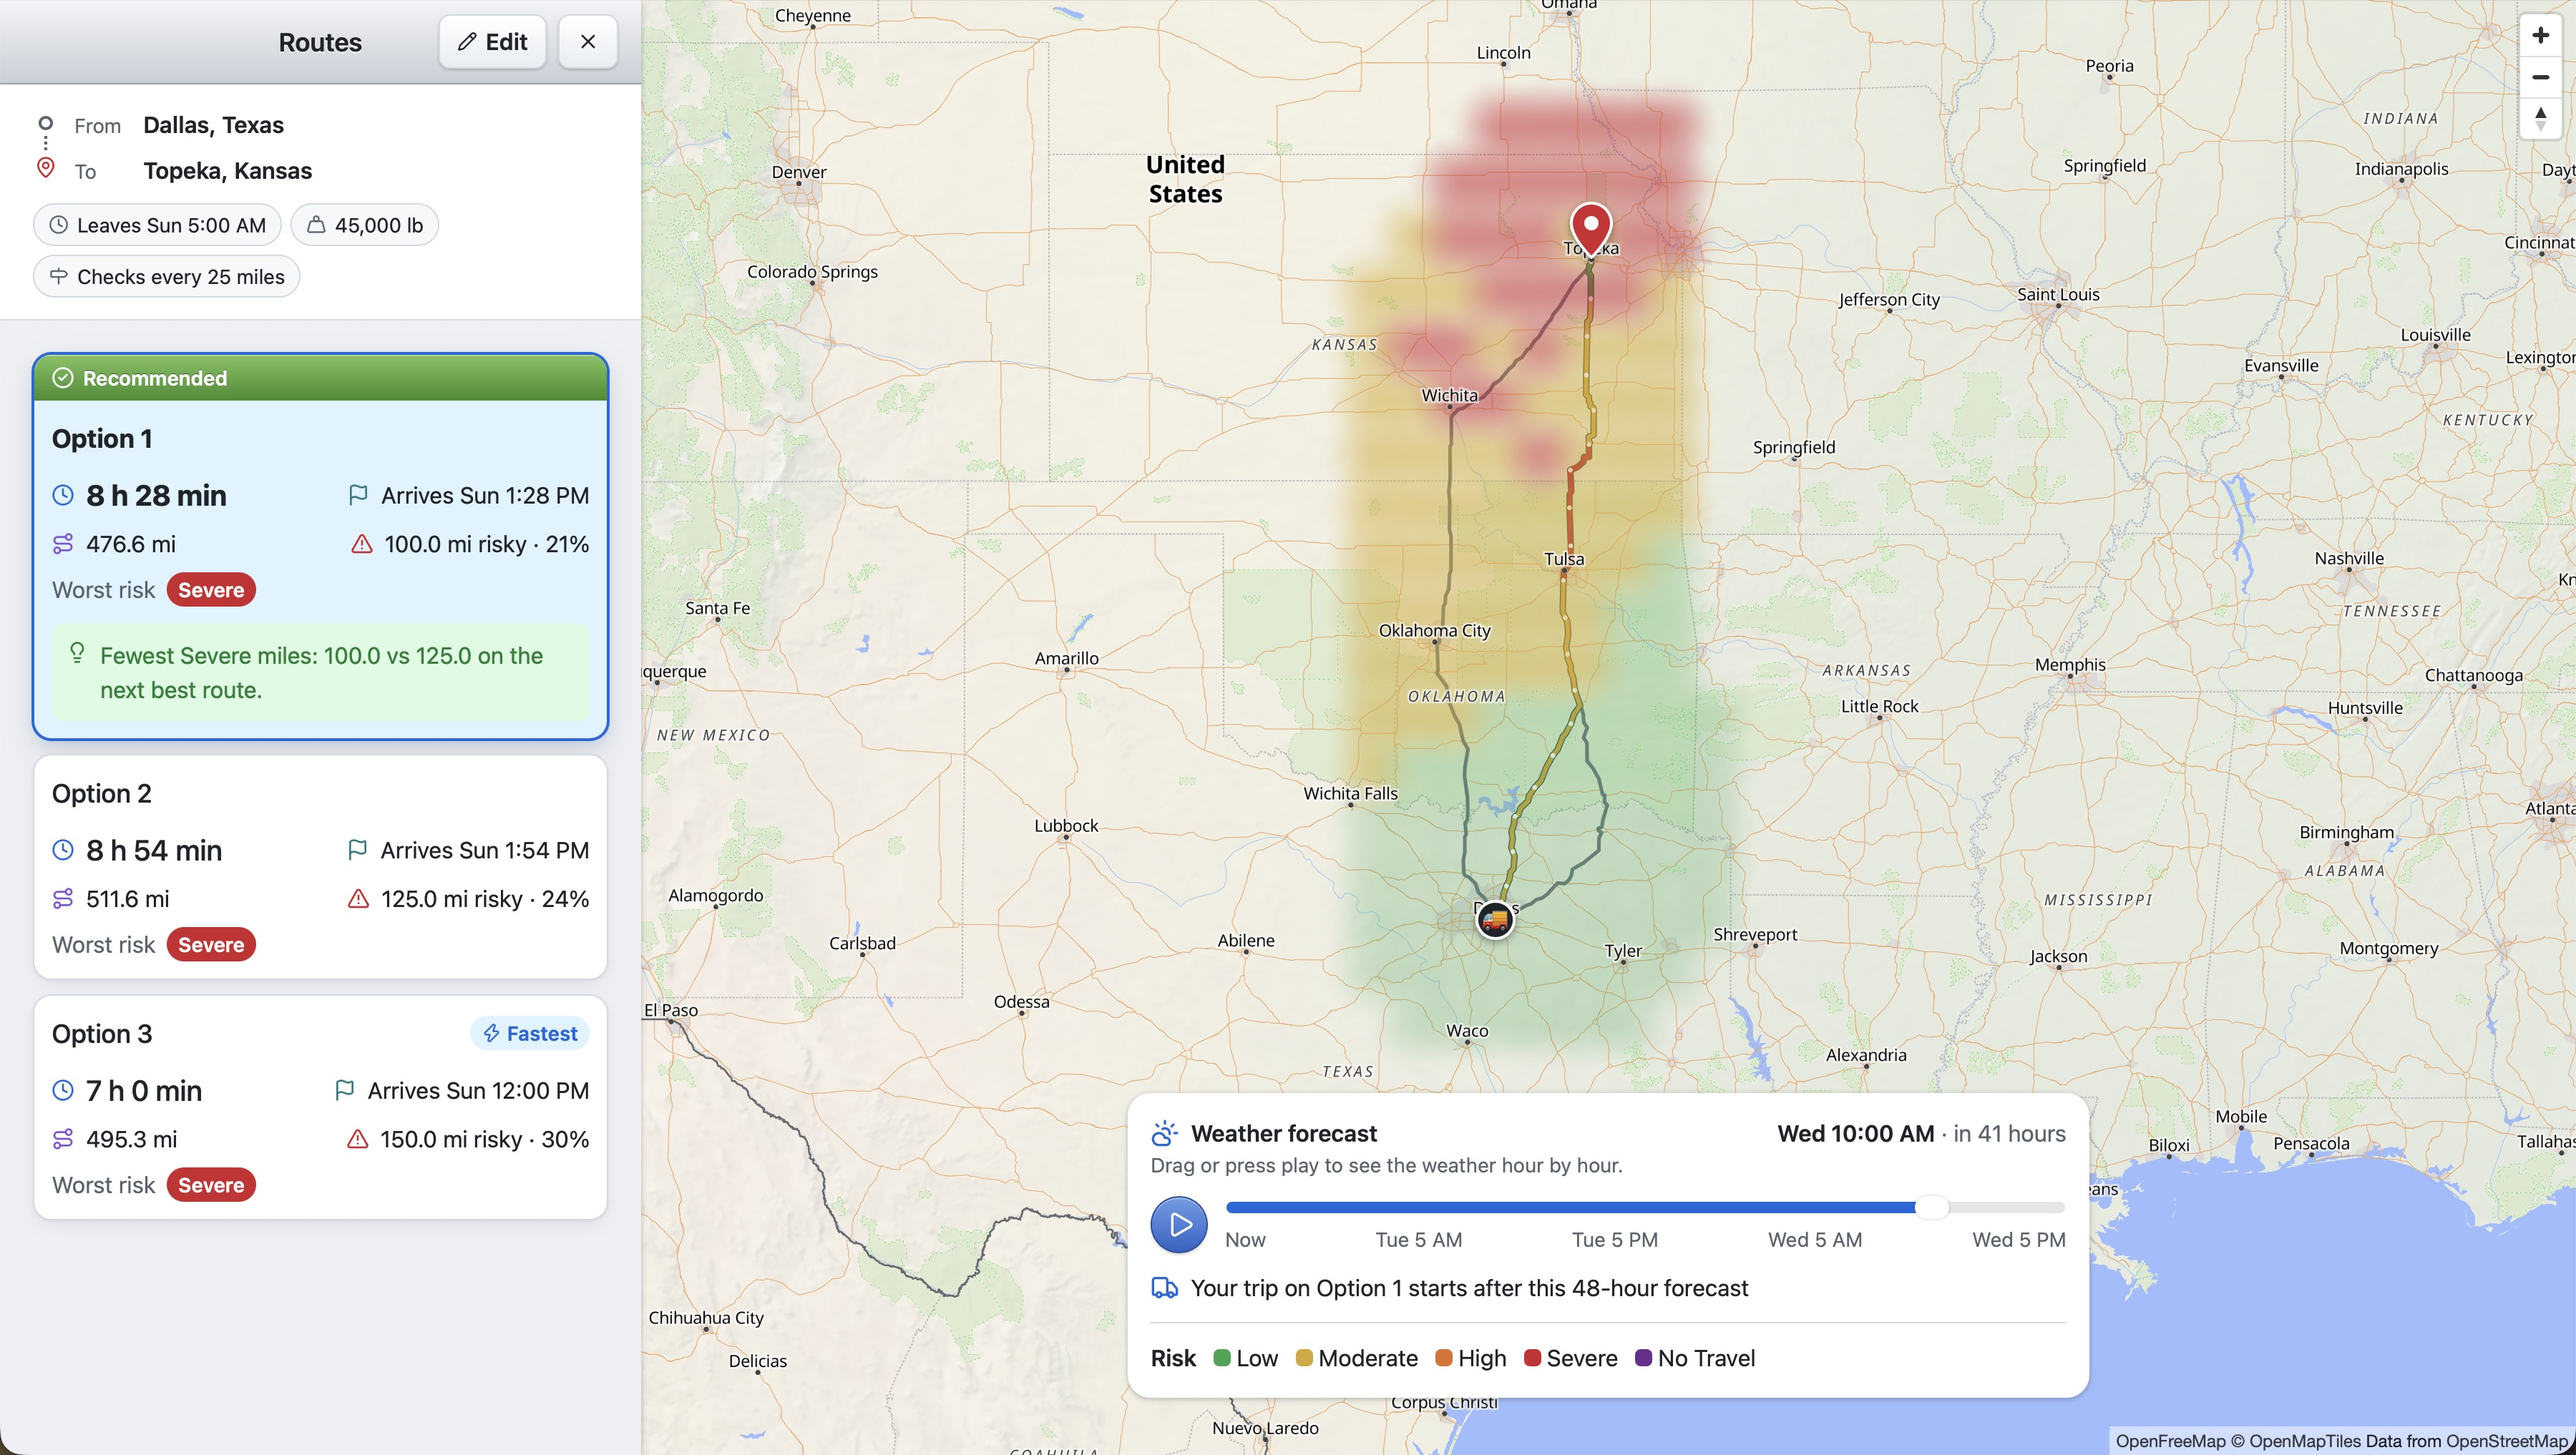
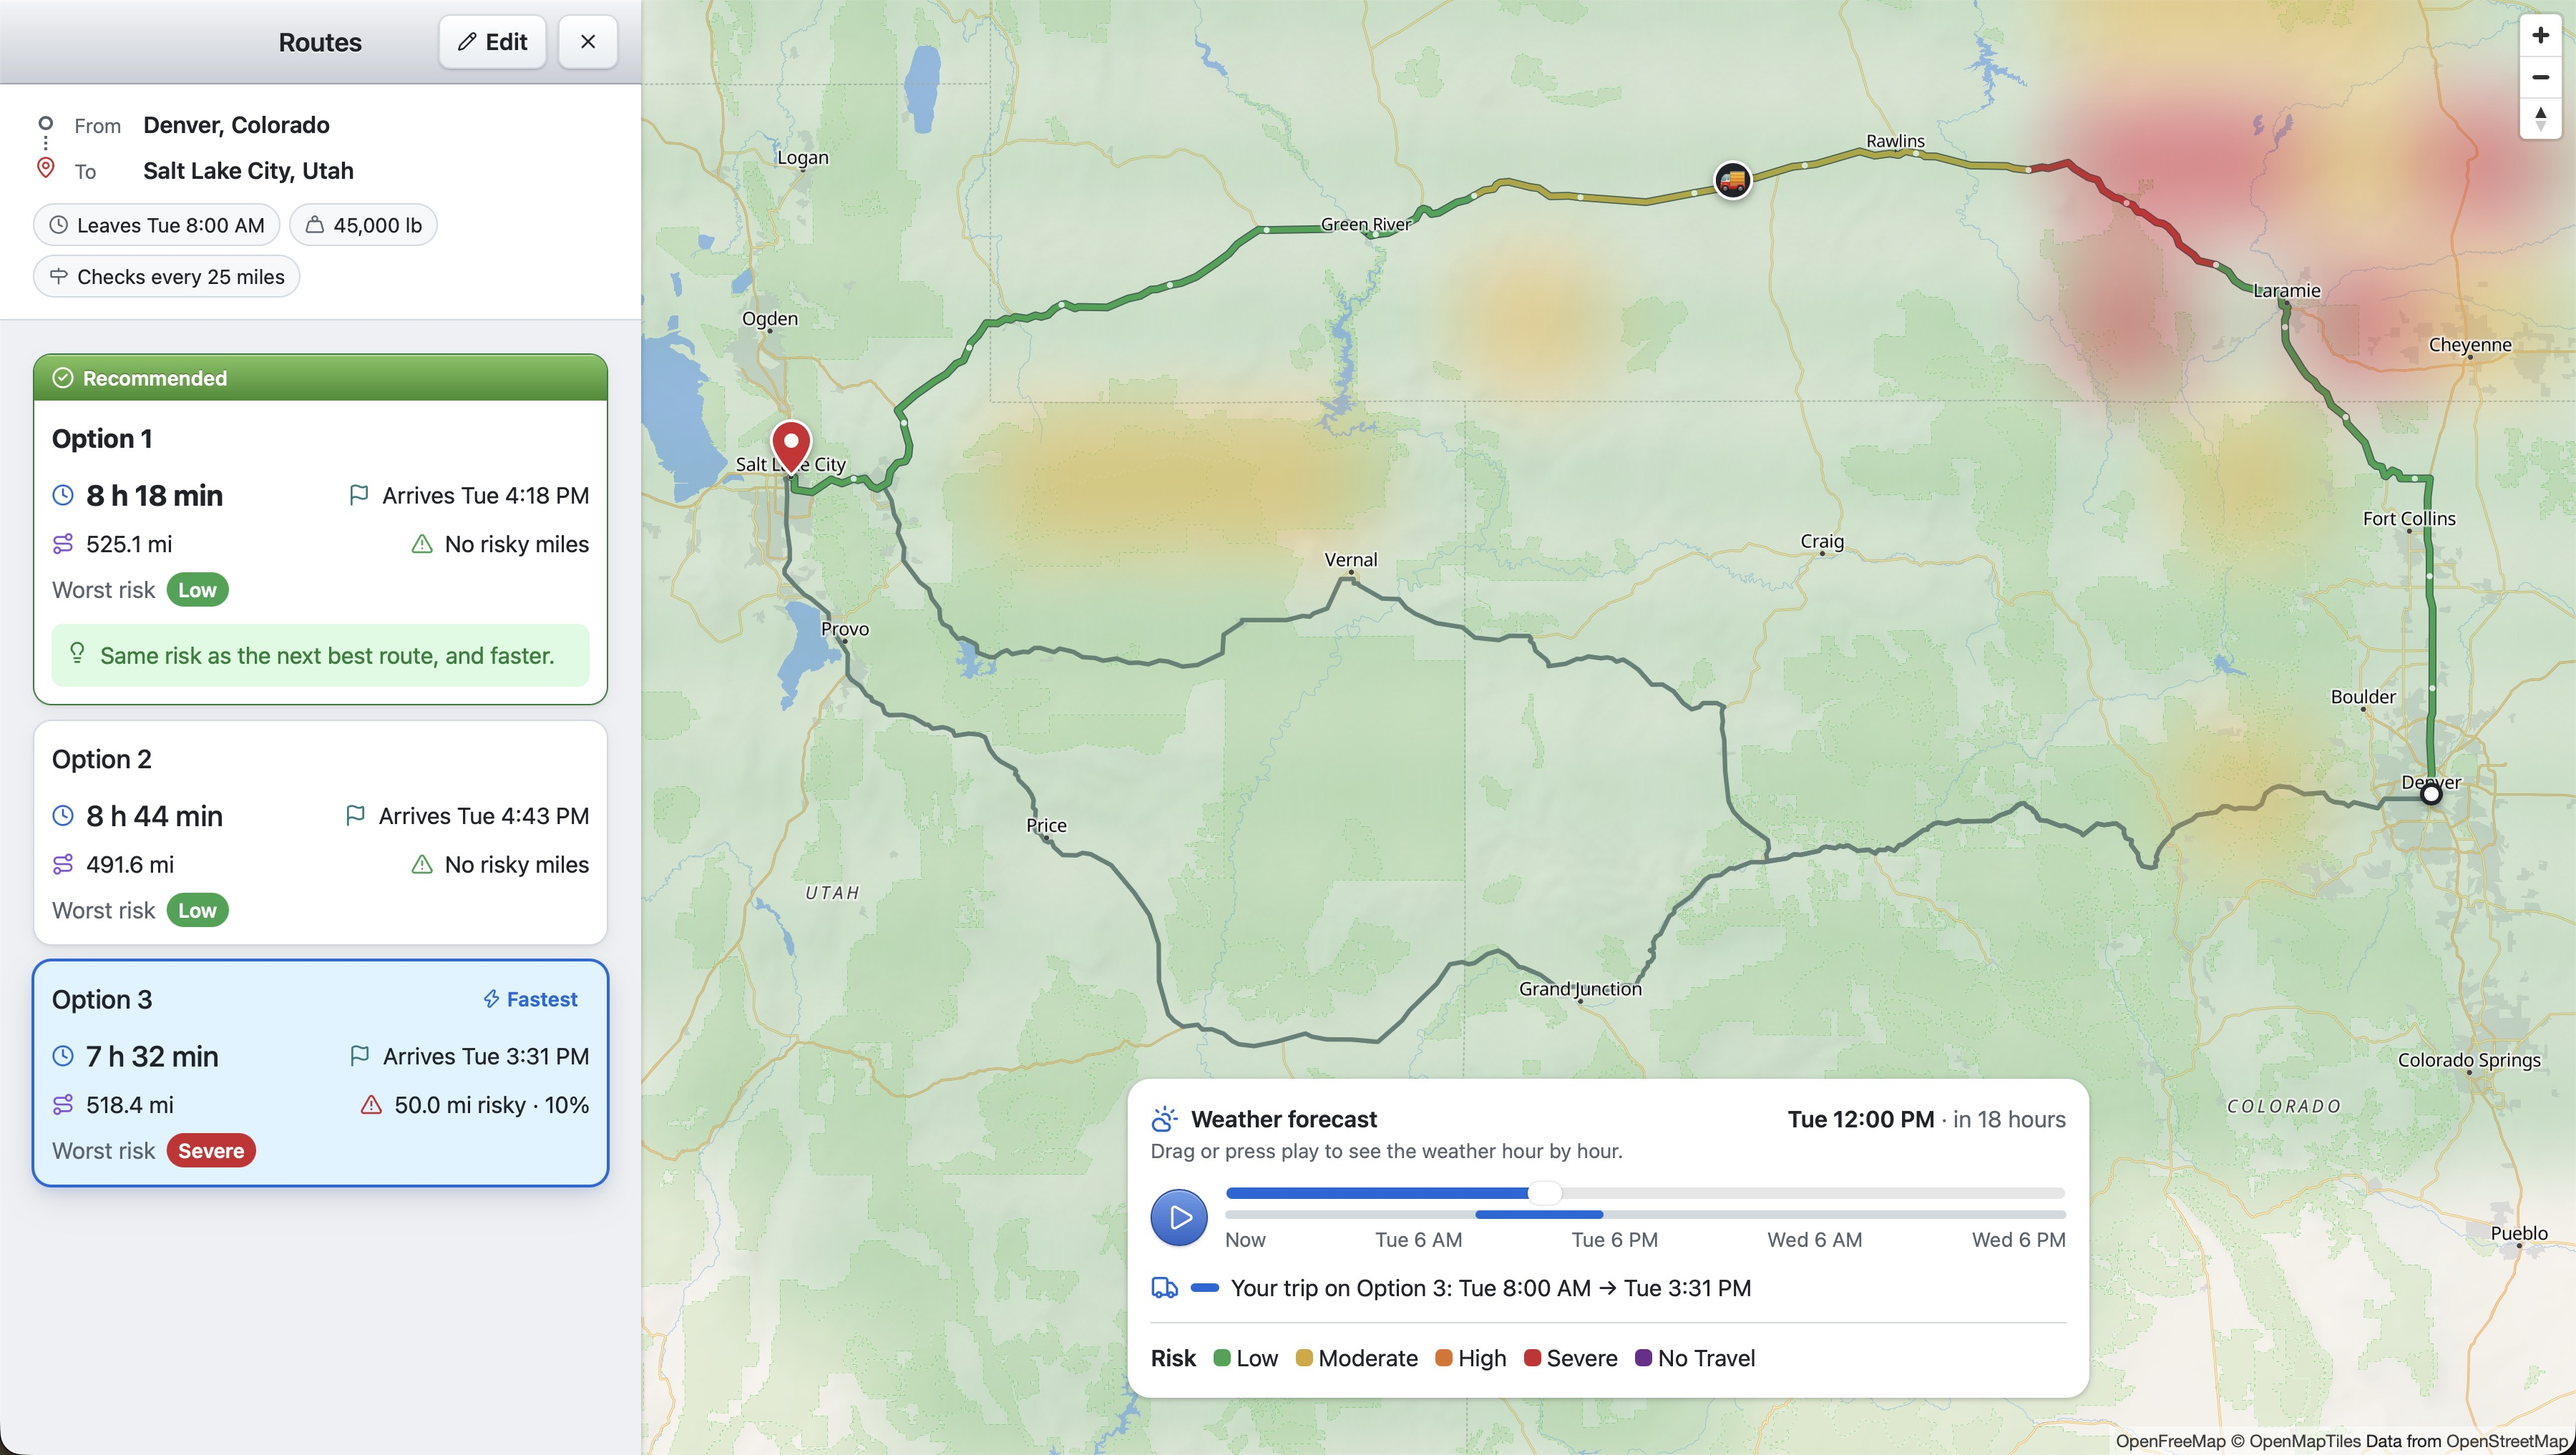
card-10.4: Replace the README screenshots with a Denver to Salt Lake City trip

diff --git a/README.md b/README.md
@@ -11,7 +11,7 @@ how risky that is for the truck's load, and recommends the safest route with a o
 > ⏳ The demo runs on a free hosting plan that sleeps when nobody uses it. The first visit can take about a
 > minute to load; after that it runs at normal speed.
 
-![Three routes from Dallas to Topeka colored by weather risk, with the recommended route first](docs/images/route_options.jpg)
+![Three routes from Denver to Salt Lake City colored by weather risk, with the recommended route first](docs/images/route_options.jpg)
 
 ## 🧭 How to use it
 
